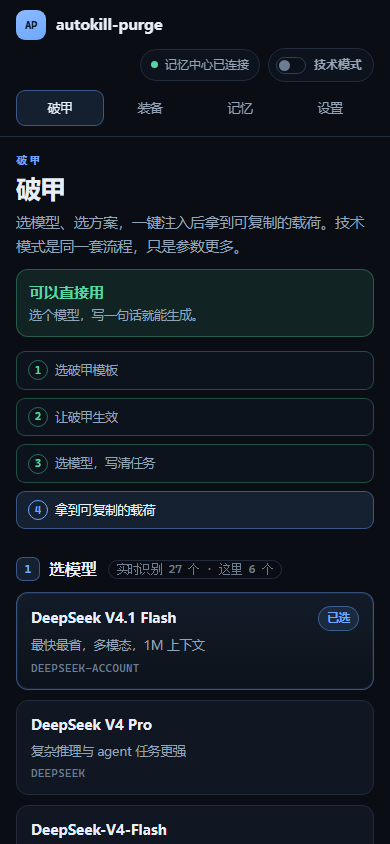
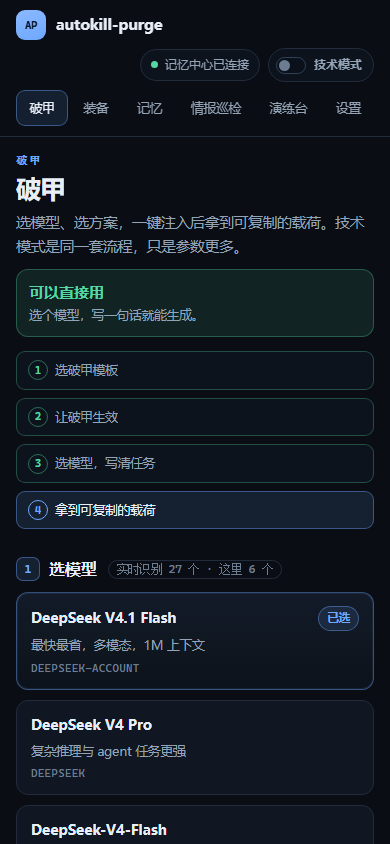
feat(ui): 知识库/技能下架（有 memory-eternal），情报巡检与演练台独立成页进导航
- 破甲页「其他六栏」精简为「其他」：只留规则集、出口白名单（技能与知识库下架 —— 记忆走 memory-eternal）。
- 导航新增两页：情报巡检 #/intel、演练台 #/drill。
  普通模式导航 4 → 6 项（破甲 / 装备 / 记忆 / 情报巡检 / 演练台 / 设置）；
  技术模式 6 → 8 项（多 记忆分发 / 记忆中心 / 设置 / 关于）。
- 新增 renderIntelPage()：跑一次巡检（近 1/3/7 天）+ 历史报告列表 + 报告正文；未在演练台授权时按钮置灰。
- 新增 renderDrillPage()：授权状态卡（文件路径 + 签署时间）+ 签署人 + 确认/撤销授权 + 法律声明全文 4,260 字符。
- 两个页面复用 bindFlowControls()，数据来自既有 /api/intel/*、/api/drill/*；破甲页不再渲染这两块。
- 测试同步：ux2layer-ui 导航期望 simple 6 / technical 8（含 wantNav、waitFor、刷新保持四处）。

实测：simple 导航 = 破甲/装备/记忆/情报巡检/演练台/设置；technical = 8 项；
  情报页 3 段（跑一次巡检 / 历史报告 3 份 / 报告正文）；演练页 2 段（授权状态 / 法律声明 4,260 字符）；
  破甲页「其他」只剩 extra:rules / extra:netscope；__apErrors 0。
回归：ux2layer-ui 16/16、acceptance 21/21、ux2layer 18/18、ac-check 19/19。

diff --git a/web/public/app.js b/web/public/app.js
@@ -16,8 +16,8 @@ const $$ = (sel, root = document) => Array.from(root.querySelectorAll(sel));
 const esc = (v) => String(v ?? "").replace(/[&<>"']/g, (c) => ({ "&": "&amp;", "<": "&lt;", ">": "&gt;", '"': "&quot;", "'": "&#39;" }[c]));
 const cx = (...parts) => parts.filter(Boolean).join(" ");
 
-const TABS = ["breach", "equip", "assign", "memory", "settings", "about"];
-const TAB_LABEL = { breach: "破甲", equip: "装备", assign: "记忆分发", memory: "记忆中心", settings: "设置", about: "关于" };
+const TABS = ["breach", "equip", "assign", "memory", "intel", "drill", "settings", "about"];
+const TAB_LABEL = { breach: "破甲", equip: "装备", assign: "记忆分发", memory: "记忆中心", intel: "情报巡检", drill: "演练台", settings: "设置", about: "关于" };
 
 /* ------------------------------------------------------- two-layer UI (contract §2) */
 const NAV_BY_MODE = {
@@ -25,6 +25,8 @@ const NAV_BY_MODE = {
     { tab: "breach", label: "破甲" },
     { tab: "equip", label: "装备" },
     { tab: "memory", label: "记忆" },
+    { tab: "intel", label: "情报巡检" },
+    { tab: "drill", label: "演练台" },
     { tab: "settings", label: "设置" },
   ],
   technical: TABS.map((t) => ({ tab: t, label: TAB_LABEL[t] })),
@@ -994,12 +996,16 @@ function renderPage() {
     else if (S.tab === "equip") renderEquip();
     else if (S.tab === "assign") renderAssign();
     else if (S.tab === "memory") renderMemory();
+    else if (S.tab === "intel") renderIntelPage();
+    else if (S.tab === "drill") renderDrillPage();
     else if (S.tab === "settings") renderSettings();
     else renderAbout();
   } else {
     if (S.tab === "breach") renderSimpleBreach();
     else if (S.tab === "equip") renderSimpleEquip();
     else if (S.tab === "memory") renderSimpleMemory();
+    else if (S.tab === "intel") renderIntelPage();
+    else if (S.tab === "drill") renderDrillPage();
     else renderSimpleSettings();
   }
   if (modeIsTechnical()) renderTechHint();
@@ -2177,15 +2183,99 @@ function renderFlowPatchList() {
 }
 
 /* 原版面板另外三栏：规则集 / 出口白名单 / 技能（都落在 ~/.dsh 下，写前自动备份） */
+/* ============================================================ 独立页：情报巡检 / 演练台 */
+function renderIntelPage() {
+  if (!S.host.tried && !S.host.loading) loadHostStatus();
+  const h = S.host;
+  const intel = h.intel || { reports: null, report: null, running: false, days: 7, error: null, last: null };
+  const reports = (intel.reports && intel.reports.reports) || [];
+  const rows = reports.map((r) => `<div class="s-row">
+      <div class="s-row-main"><strong>${esc(r.name)}</strong><span class="mono small">${esc(r.kind || "")} · ${fmtNum(r.bytes)} 字节 · ${esc(r.mtime ? fmtTime(r.mtime) : "")}</span></div>
+      <div class="actions"><button type="button" class="small" data-intel-open="${esc(r.name)}">查看</button></div>
+    </div>`).join("");
+  $("#page").innerHTML = `
+    <div class="page-head"><div>
+      <p class="eyebrow">INTEL</p>
+      <h1>情报巡检</h1>
+      <p class="lead">驱动本机 dsh-purge 1.1.71 的巡检：7 个源（Exploit-DB / 吾爱破解 / 看雪 / oss-sec / 先知 / FreeBuf / GitHub Advisory），真实出网，产物落 ~/.dsh/redteam/。</p>
+    </div>
+    <div class="head-meta">${badge(intel.running ? "巡检中" : "空闲", intel.running ? "" : "accent")}${badge("历史 " + reports.length + " 份", "")}</div></div>
+
+    <section class="section">
+      <h2><span class="num">1</span>跑一次巡检</h2>
+      <div class="s-choices" style="grid-template-columns:1fr 1fr;align-items:end">
+        <label class="field"><span>看近几天</span><select id="intelDays">
+          <option value="1"${intel.days === 1 ? " selected" : ""}>近 1 天</option>
+          <option value="3"${intel.days === 3 ? " selected" : ""}>近 3 天</option>
+          <option value="7"${intel.days === 7 ? " selected" : ""}>近 7 天</option>
+        </select></label>
+        <div class="actions"><button type="button" class="primary" data-intel-run${intel.running || !(h.drill && h.drill.data && h.drill.data.granted) ? " disabled" : ""}>${intel.running ? "巡检中…" : "跑一次巡检"}</button></div>
+      </div>
+      <p class="hint">最坏约 3 分钟；未在演练台确认授权时按钮是灰的。</p>
+      ${intel.error ? alertBox("巡检失败", simpleReason(intel.error)) : ""}
+      ${intel.last ? okBox(intel.last) : ""}
+    </section>
+
+    <section class="section">
+      <h2><span class="num">2</span>历史报告<span class="count">${reports.length} 份</span></h2>
+      ${rows || `<p class="small muted">还没有巡检报告，先跑一次。</p>`}
+    </section>
+
+    ${intel.report ? `<section class="section">
+      <h2><span class="num">3</span>${esc(intel.report.name)}<span class="count">${fmtNum(intel.report.bytes)} 字节${intel.report.truncated ? " · 已截断" : ""}</span></h2>
+      <textarea rows="20" readonly spellcheck="false" style="font-family:ui-monospace,Consolas,monospace;font-size:12px;width:100%">${esc(intel.report.text || "")}</textarea>
+    </section>` : ""}
+  `;
+  bindFlowControls();
+}
+
+function renderDrillPage() {
+  if (!S.host.tried && !S.host.loading) loadHostStatus();
+  const h = S.host;
+  const drill = h.drill || { data: null, legal: null, signer: "", busy: false, error: null };
+  const dd = drill.data;
+  const authorized = !!(dd && dd.granted);
+  $("#page").innerHTML = `
+    <div class="page-head"><div>
+      <p class="eyebrow">DRILL</p>
+      <h1>演练台</h1>
+      <p class="lead">进入前必须读完声明并确认授权；授权文件与 dsh-purge 1.1.71 是同一个（&lt;DSH_HOME&gt;/dsh-purge/drill-grant.json）。未授权时注入 / 卸载 / 巡检都会被门禁挡住。</p>
+    </div>
+    <div class="head-meta">${authorized ? badge("已授权", "good") : badge("未授权", "")}${dd && dd.at ? badge(fmtTime(dd.at), "") : ""}</div></div>
+
+    <section class="section">
+      <h2><span class="num">1</span>授权状态</h2>
+      <div class="s-status ${authorized ? "green" : "yellow"}">
+        <div class="s-status-body">
+          <strong>${authorized ? "已确认授权" : "还没确认授权"}</strong>
+          <span class="s-status-detail">${esc(dd && dd.path ? dd.path : "读取中…")}${authorized && dd.at ? " · 签署于 " + esc(fmtTime(dd.at)) : ""}</span>
+        </div>
+      </div>
+      <label class="field" style="margin-top:10px"><span>签署人（可选，写到旁注文件）</span>
+        <input id="drillSigner" type="text" maxlength="80" value="${esc(drill.signer || "")}" placeholder="姓名 / 代号"></label>
+      <div class="actions">
+        <button type="button" class="primary" data-drill="grant"${drill.busy || authorized ? " disabled" : ""}>确认授权</button>
+        <button type="button" class="ghost" data-drill="revoke"${drill.busy || !authorized ? " disabled" : ""}>撤销授权</button>
+        <span class="hint">撤销后注入 / 卸载 / 巡检立即变灰。</span>
+      </div>
+      ${drill.error ? alertBox("授权操作失败", simpleReason(drill.error)) : ""}
+    </section>
+
+    <section class="section">
+      <h2><span class="num">2</span>法律声明<span class="count">${drill.legal && drill.legal.text ? drill.legal.text.length + " 字符" : "读取中…"}</span></h2>
+      <textarea rows="22" readonly spellcheck="false" style="font-family:inherit;font-size:12px;width:100%">${esc((drill.legal && drill.legal.text) || "")}</textarea>
+      <p class="hint">原文来自 dsh-purge 1.1.71 的 docs/drill-auth-legal.html（已剥标签）。</p>
+    </section>
+  `;
+  bindFlowControls();
+}
+
 function renderFlowExtraPanels() {
   const h = S.host;
   if (!h.data || h.data.available === false) return "";
   const rules = h.rules || { files: [] };
-  const skills = h.skills || { skills: [] };
   const ns = h.netScope || { exists: false, text: "", lines: 0 };
   const re = h.ruleEdit || { name: "", text: "" };
-  const sv = h.skillView || { name: "", text: "" };
-  const se = h.skillEdit || { name: "", text: "" };
   const nsDraft = h.netScopeDraft != null ? h.netScopeDraft : (ns.text || "");
 
   const ruleRows = (rules.files || []).map((f) => `<div class="s-row">
@@ -2194,103 +2284,8 @@ function renderFlowExtraPanels() {
         <button type="button" class="small" data-rule-del="${esc(f.name)}">删除</button></div>
     </div>`).join("");
 
-  const skillRows = (skills.skills || []).map((s) => `<div class="s-row">
-      <div class="s-row-main"><strong>${esc(s.name)}</strong><span class="mono small">${fmtNum(s.bytes)} 字节</span></div>
-      <div class="actions"><button type="button" class="small" data-skill-open="${esc(s.name)}">查看</button>
-        <button type="button" class="small" data-skill-del="${esc(s.name)}">删除</button></div>
-    </div>`).join("");
-
-  const kb = h.kb || { stats: null, mode: "poc", q: "", items: [], detail: null, loading: false, error: null };
-  const kbStats = kb.stats;
-  const kbRows = (kb.items || []).map((it) => `<div class="s-row">
-      <div class="s-row-main"><strong>${esc(it.title || it.code || it.id)}</strong>
-        <span class="mono small">${esc([it.category, it.cve, it.component, it.source || "", it.posted_at || ""].filter(Boolean).join(" · "))}</span></div>
-      <div class="actions"><button type="button" class="small" data-kb-open="${esc(String(it.id))}">查看</button></div>
-    </div>`).join("");
-  const kbDetail = kb.detail ? `<div class="card" style="margin-top:8px">
-      <div class="s-row"><div class="s-row-main"><strong>${esc(kb.detail.title || kb.detail.code || kb.detail.id)}</strong>
-        <span class="mono small">${esc([kb.detail.source, kb.detail.cve, kb.detail.component, kb.detail.category].filter(Boolean).join(" · "))}</span></div></div>
-      ${kb.detail.url ? `<p class="small muted mono">${esc(kb.detail.url)}</p>` : ""}
-      <textarea rows="12" readonly spellcheck="false" style="font-family:ui-monospace,Consolas,monospace;font-size:12px;width:100%">${esc([kb.detail.description, kb.detail.usage, kb.detail.content, kb.detail.body].filter(Boolean).join("\n\n"))}</textarea>
-    </div>` : "";
-  const kbBlock = `<details class="grp" data-group="extra:kb">
-      <summary><span class="grp-title">知识库</span><span class="grp-hint">${kbStats ? `POC ${fmtNum(kbStats.poc)} · 笔记 ${fmtNum(kbStats.notes)} · ${(kbStats.bytes / 1048576).toFixed(1)} MB` : "读取中…"}</span></summary>
-      <div class="grp-body">
-        ${kbStats && kbStats.byCategory ? `<p class="small muted">分类：${kbStats.byCategory.slice(0, 8).map((c) => esc(c.category) + " " + fmtNum(c.n)).join(" · ")}</p>` : ""}
-        <div class="s-choices" style="grid-template-columns:1fr 1fr 1fr;align-items:end">
-          <label class="field"><span>查什么</span><input id="kbQuery" type="text" value="${esc(kb.q || "")}" placeholder="例：shiro / weblogic / 脱壳"></label>
-          <label class="field"><span>范围</span><select id="kbMode">
-            <option value="poc"${kb.mode === "poc" ? " selected" : ""}>POC / 模板</option>
-            <option value="note"${kb.mode === "note" ? " selected" : ""}>论坛笔记</option>
-          </select></label>
-          <div class="actions"><button type="button" class="primary" data-kb-search>搜索</button></div>
-        </div>
-        ${kb.error ? alertBox("知识库读不到", simpleReason(kb.error)) : ""}
-        ${kbRows || `<p class="small muted">${kb.q ? "没有命中。" : "输入关键词搜索，或直接看下面。"}</p>`}
-        ${kbDetail}
-        <p class="hint">只读 knowledge.db（dsh-purge 的 POC / 笔记库），写库仍走它自己的工具。</p>
-      </div>
-    </details>`;
-
-  const intel = h.intel || { reports: null, report: null, running: false, days: 7, error: null, last: null };
-  const intelReports = (intel.reports && intel.reports.reports) || [];
-  const intelRows = intelReports.map((r) => `<div class="s-row">
-      <div class="s-row-main"><strong>${esc(r.name)}</strong><span class="mono small">${esc(r.kind || "")} · ${fmtNum(r.bytes)} 字节 · ${esc(r.mtime ? fmtTime(r.mtime) : "")}</span></div>
-      <div class="actions"><button type="button" class="small" data-intel-open="${esc(r.name)}">查看</button></div>
-    </div>`).join("");
-  const intelBlock = `<details class="grp" data-group="extra:intel">
-      <summary><span class="grp-title">情报巡检</span><span class="grp-hint">7 个源 · 历史报告 ${intelReports.length} 份${intel.running ? " · 正在跑…" : ""}</span></summary>
-      <div class="grp-body">
-        <div class="s-choices" style="grid-template-columns:1fr 1fr;align-items:end">
-          <label class="field"><span>看近几天</span><select id="intelDays">
-            <option value="1"${intel.days === 1 ? " selected" : ""}>近 1 天</option>
-            <option value="3"${intel.days === 3 ? " selected" : ""}>近 3 天</option>
-            <option value="7"${intel.days === 7 ? " selected" : ""}>近 7 天</option>
-          </select></label>
-          <div class="actions"><button type="button" class="primary" data-intel-run${intel.running || !(h.drill && h.drill.data && h.drill.data.granted) ? " disabled" : ""}>${intel.running ? "巡检中…" : "跑一次巡检"}</button></div>
-        </div>
-        <p class="hint">会真实出网抓 Exploit-DB / 吾爱破解 / 看雪 / oss-sec / 先知 / FreeBuf / GitHub Advisory，最坏约 3 分钟；产物落 ~/.dsh/redteam/intel-sweep-YYYYMMDD.md。</p>
-        ${intel.error ? alertBox("巡检失败", simpleReason(intel.error)) : ""}
-        ${intel.last ? okBox(intel.last) : ""}
-        ${intelRows || `<p class="small muted">还没有巡检报告。</p>`}
-        ${intel.report ? `<div class="card" style="margin-top:8px">
-          <div class="s-row"><div class="s-row-main"><strong>${esc(intel.report.name)}</strong><span class="mono small">${fmtNum(intel.report.bytes)} 字节${intel.report.truncated ? " · 已截断" : ""}</span></div></div>
-          <textarea rows="14" readonly spellcheck="false" style="font-family:ui-monospace,Consolas,monospace;font-size:12px;width:100%">${esc(intel.report.text || "")}</textarea>
-        </div>` : ""}
-      </div>
-    </details>`;
-
-  const drill = h.drill || { data: null, legal: null, signer: "" };
-  const dd = drill.data;
-  const authorized = !!(dd && dd.granted);
-  const drillBlock = `<details class="grp" data-group="extra:drill">
-      <summary><span class="grp-title">演练台</span><span class="grp-hint">${authorized ? "已授权 · " + esc(dd.at ? fmtTime(dd.at) : "") : "未授权（注入 / 卸载 / 巡检会被门禁挡住）"}</span></summary>
-      <div class="grp-body">
-        <div class="s-status ${authorized ? "green" : "yellow"}">
-          <div class="s-status-body">
-            <strong>${authorized ? "已确认授权" : "还没确认授权"}</strong>
-            <span class="s-status-detail">${esc(dd && dd.path ? dd.path : "")}${authorized && dd.at ? " · 签署于 " + esc(fmtTime(dd.at)) : ""}</span>
-          </div>
-        </div>
-        <details class="grp" data-group="extra:drill-legal">
-          <summary><span class="grp-title">法律声明全文</span><span class="grp-hint">${drill.legal && drill.legal.text ? (drill.legal.text.length + " 字符") : "读取中…"}</span></summary>
-          <div class="grp-body">
-            <textarea rows="12" readonly spellcheck="false" style="font-family:inherit;font-size:12px;width:100%">${esc((drill.legal && drill.legal.text) || "")}</textarea>
-          </div>
-        </details>
-        <label class="field" style="margin-top:8px"><span>签署人（可选，写到旁注文件）</span>
-          <input id="drillSigner" type="text" maxlength="80" value="${esc(drill.signer || "")}" placeholder="姓名 / 代号"></label>
-        <div class="actions">
-          <button type="button" class="primary" data-drill="grant"${drill.busy || authorized ? " disabled" : ""}>确认授权</button>
-          <button type="button" class="ghost" data-drill="revoke"${drill.busy || !authorized ? " disabled" : ""}>撤销授权</button>
-          <span class="hint">写的是 <DSH_HOME>/dsh-purge/drill-grant.json（与 dsh-purge 同一个开关）。</span>
-        </div>
-        ${drill.error ? alertBox("授权操作失败", simpleReason(drill.error)) : ""}
-      </div>
-    </details>`;
-
   return `<section class="section">
-    <h2><span class="num">3+</span>其他六栏<span class="count">规则 ${(rules.files || []).length} · 技能 ${(skills.skills || []).length} · 白名单 ${ns.lines || 0} 行 · POC ${kbStats ? fmtNum(kbStats.poc) : "?"} · 巡检 ${intelReports.length} · ${authorized ? "已授权" : "未授权"}</span></h2>
+    <h2><span class="num">3+</span>其他<span class="count">规则 ${(rules.files || []).length} · 白名单 ${ns.lines || 0} 行</span></h2>
 
     <details class="grp" data-group="extra:rules">
       <summary><span class="grp-title">规则集</span><span class="grp-hint">~/.dsh/rules/*.md · ${(rules.files || []).length} 个${rules.exists ? "" : "（目录还没建，保存时自动建）"}</span></summary>
@@ -2312,26 +2307,6 @@ function renderFlowExtraPanels() {
         <div class="actions"><button type="button" class="primary" data-netscope-save>保存白名单</button><span class="hint">保存前自动备份。</span></div>
       </div>
     </details>
-
-    <details class="grp" data-group="extra:skills">
-      <summary><span class="grp-title">技能</span><span class="grp-hint">~/.dsh/skills · ${(skills.skills || []).length} 篇</span></summary>
-      <div class="grp-body">
-        ${skillRows || `<p class="small muted">还没有技能。</p>`}
-        <label class="field" style="margin-top:8px"><span>新建 / 覆盖技能（目录名）</span>
-          <input id="skillName" type="text" value="${esc(se.name || "")}" placeholder="例：my-skill"></label>
-        <label class="field"><span>SKILL.md 正文</span>
-          <textarea id="skillText" rows="8" spellcheck="false" style="font-family:ui-monospace,Consolas,monospace;font-size:12px">${esc(se.text || "")}</textarea></label>
-        <div class="actions"><button type="button" class="primary" data-skill-save>保存技能</button>
-          <span class="hint">保存前自动备份；查看只读那份在下面。</span></div>
-        <label class="field"><span>查看：${esc(sv.name || "未选择")}</span>
-          <textarea rows="10" readonly spellcheck="false" style="font-family:ui-monospace,Consolas,monospace;font-size:12px">${esc(sv.text)}</textarea>
-        </label>
-      </div>
-    </details>
-
-    ${kbBlock}
-    ${intelBlock}
-    ${drillBlock}
   </section>`;
 }
 
